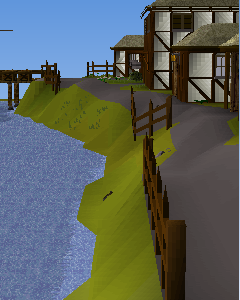
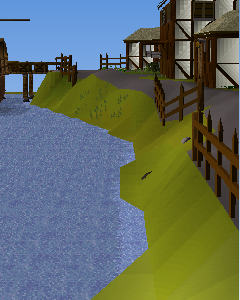
fix(scenes): prove every emote frame and a bulky look; refuse off-map spots
Each spot's composite is now compared with the same-pass render for both
the default and a bulky look, standing and in every frame of every emote
the card plays (2 x 73 per spot); the build names the spot, look, emote
and frame on any difference. Catherby moves a tile south, away from the
fence its dance kick reached. A tile off the map, or an indexed mapsquare
whose files are missing, now throws instead of rendering an empty sky.

diff --git a/scripts/scenes/render.ts b/scripts/scenes/render.ts
@@ -33,7 +33,8 @@ import "./client-shim.ts";
 import { readFileSync } from "node:fs";
 import path from "node:path";
 
-import { type BodyTables, buildBody } from "../../lib/chathead/body.ts";
+import type { AnimTables } from "../../lib/chathead/anims.ts";
+import { type BodyTables, buildBody, type Pose } from "../../lib/chathead/body.ts";
 import { type Client, type ClientModel, prepare } from "../../lib/chathead/client.ts";
 import type { Look } from "../../lib/chathead/look.ts";
 import type { SceneSpot } from "../../lib/scenes/spots.ts";
@@ -145,23 +146,52 @@ const REFERENCE: Look = {
   worn: new Array<number>(14).fill(-1),
 };
 
+/**
+ * The same player geared up well past that outline: a rune full helm (0),
+ * a red cape (1), a rune two-handed sword (3), a rune platebody (4) and
+ * platelegs (7), by `wearpos`. A player's own outfit can be wider or taller
+ * than the default, so each spot is proved with this one too.
+ */
+const BULKY: Look = {
+  ...REFERENCE,
+  worn: [1163, 1007, -1, 1319, 1127, -1, -1, 1079, -1, -1, -1, -1, -1, -1],
+};
+
+/** The looks every spot is proved with, named for the build's errors. */
+const LOOKS: { name: string; look: Look }[] = [
+  { name: "the default look", look: REFERENCE },
+  { name: "the bulky look", look: BULKY },
+];
+
 /** The build area: 13 zones of 8 tiles (`BuildArea.SIZE`). */
 const SIZE = 104;
 
 /** Where the figure lands in the frame, from the pixels it changed. */
 export type Box = { left: number; top: number; right: number; bottom: number };
 
+/** A look in a pose whose composite is not the game's picture. */
+export type Failure = {
+  look: string;
+  /** "standing", or the emote and the frame: "dance frame 2305". */
+  pose: string;
+  /** Pixels where the composite and the same pass differ. */
+  differing: number;
+  /** The game's picture of it, for the contact sheet. */
+  samePass: Int32Array;
+};
+
 export type Shot = {
   spot: SceneSpot;
   /** The scene with no one in it: the PNG. */
   backdrop: Int32Array;
-  /** The reference figure drawn with `worldRender` over the backdrop. */
-  composite: Int32Array;
-  /** The reference figure drawn by `renderAll`, in the same pass. */
+  /** The default look standing, drawn by `renderAll` in the same pass. */
   samePass: Int32Array;
-  /** Pixels where `composite` and `samePass` differ. 0 is exact. */
-  differing: number;
+  /** Where the default look standing lands. */
   figureBox: Box;
+  /** How many look-and-pose composites were compared. */
+  proofs: number;
+  /** Every one of them that differed. None is exact. */
+  failures: Failure[];
 };
 
 export type Studio = {
@@ -190,7 +220,7 @@ export async function openStudio(clientDir: string, engineDir: string, outDir: s
         "dash3d/Pix3D.ts",
       ),
       Pix2D: await client<Client["Pix2D"]>("graphics/Pix2D.ts"),
-      AnimFrame: await client<Client["AnimFrame"]>("dash3d/AnimFrame.ts"),
+      AnimFrame: await client<Client["AnimFrame"] & { list: (object | undefined)[] }>("dash3d/AnimFrame.ts"),
       LocType: await client<ConfigClass>("config/LocType.ts"),
       FloType: await client<ConfigClass>("config/FloType.ts"),
       SeqType: await client<ConfigClass>("config/SeqType.ts"),
@@ -257,6 +287,31 @@ export async function openStudio(clientDir: string, engineDir: string, outDir: s
   const bodies = JSON.parse(
     readFileSync(path.join(outDir, "lib/chathead/bodies.json"), "utf8"),
   ) as BodyTables;
+  for (const id of BULKY.worn) {
+    if (id !== -1 && !bodies.objs[id]) {
+      throw new Error(`the bulky look wears object ${id}, which bodies.json lacks: change BULKY in render.ts`);
+    }
+  }
+
+  // Every pose the card can draw a figure in: standing, and every frame of
+  // every emote (lib/chathead/anims.json, what the site plays), each with
+  // the hands its seq empties. Frames an emote repeats are proved once.
+  const anims = JSON.parse(
+    readFileSync(path.join(outDir, "lib/chathead/anims.json"), "utf8"),
+  ) as AnimTables;
+  const poses: { name: string; pose?: Pose }[] = [{ name: "standing" }];
+  const posed = new Set<string>();
+  for (const [emote, seq] of Object.entries(anims.emotes)) {
+    for (const frame of seq.frames) {
+      const id = `${frame}:${seq.hideLeft}:${seq.hideRight}`;
+      if (posed.has(id)) continue;
+      posed.add(id);
+      if (!AnimFrame.list[frame]) {
+        throw new Error(`${emote} frame ${frame} is not in the cache's anims: re-run npm run chathead:update`);
+      }
+      poses.push({ name: `${emote} frame ${frame}`, pose: { frame, hideLeft: seq.hideLeft, hideRight: seq.hideRight } });
+    }
+  }
   const title = jag("title");
   const font = PixFont.depack(title, "p12_full", false);
 
@@ -317,17 +372,35 @@ export async function openStudio(clientDir: string, engineDir: string, outDir: s
     const world = new World(groundh, SIZE, 4, SIZE);
     const collision = [0, 1, 2, 3].map(() => new CollisionMap());
 
-    // The mapsquares covering the 13x13 zones (Client.ts:6842-6872).
+    // The figure has to stand on the map. Off it, every square around is
+    // missing too, and the build would draw an empty sky around a floating
+    // figure — which composites exactly, so nothing else would catch it.
+    const ownX = input.x >> 6;
+    const ownZ = input.z >> 6;
+    if (!maps.has((ownX << 8) | ownZ)) {
+      throw new Error(
+        `${input.key}: ${input.x},${input.z} is not on the map (no mapsquare ${ownX}_${ownZ} in map_index); ` +
+          `check the tile in spots.ts`,
+      );
+    }
+
+    // The mapsquares covering the 13x13 zones (Client.ts:6842-6872). One
+    // map_index leaves out is not there (the sea past the edge of the map,
+    // which fadeAdjacent fades into); one it lists must have both its files,
+    // or the pack is half-built.
     const squares: { x: number; z: number; land: Uint8Array | null; loc: Uint8Array | null }[] = [];
     for (let mx = ((zoneX - 6) / 8) | 0; mx <= (((zoneX + 6) / 8) | 0); mx++) {
       for (let mz = ((zoneZ - 6) / 8) | 0; mz <= (((zoneZ + 6) / 8) | 0); mz++) {
         const files = maps.get((mx << 8) + mz);
-        squares.push({
-          x: mx * 64 - baseX,
-          z: mz * 64 - baseZ,
-          land: files ? cache.readGzip(4, files.land) : null,
-          loc: files ? cache.readGzip(4, files.loc) : null,
-        });
+        const land = files ? cache.readGzip(4, files.land) : null;
+        const loc = files ? cache.readGzip(4, files.loc) : null;
+        if (files && (!land || !loc)) {
+          const missing = !land ? `land (file ${files.land})` : `locs (file ${files.loc})`;
+          throw new Error(
+            `${input.key}: map_index lists mapsquare ${mx}_${mz} but its ${missing} is not in the cache: repack the engine`,
+          );
+        }
+        squares.push({ x: mx * 64 - baseX, z: mz * 64 - baseZ, land, loc });
       }
     }
 
@@ -387,10 +460,10 @@ export async function openStudio(clientDir: string, engineDir: string, outDir: s
     return { x: targetX - x, y: targetY - y, z: targetZ - z };
   }
 
-  /** The reference figure, freshly built: `buildBody` hands out the one scratch model. */
-  function figure(): WorldModel {
-    const body = buildBody(source, bodies, REFERENCE);
-    if (!body) throw new Error("the reference look built no body: re-run npm run chathead:update");
+  /** A figure, freshly built: `buildBody` hands out the one scratch model. */
+  function figure(look: Look, pose?: Pose): WorldModel {
+    const body = buildBody(source, bodies, look, pose);
+    if (!body) throw new Error("a reference look built no body: re-run npm run chathead:update");
     return body as WorldModel;
   }
 
@@ -406,9 +479,11 @@ export async function openStudio(clientDir: string, engineDir: string, outDir: s
    * fence, a table, the ground rising in front — covers any of its pixels:
    * `World` paints back to front, and a composite puts the figure last.
    *
-   * So the reference figure is drawn both ways — in the same pass, with
-   * `addDynamic`, and over the finished backdrop — and the pixels compared.
-   * `build.ts` refuses a spot where any differ.
+   * So a figure is drawn both ways — in the same pass, with `addDynamic`,
+   * and over the finished backdrop — and the pixels compared, for every
+   * pose the card can show it in (standing, and every frame of every emote)
+   * and for two looks: the default, and a bulky one that reaches further.
+   * `build.ts` refuses a spot where any differ, naming the look and pose.
    */
   async function shoot(input: SpotInput): Promise<Shot> {
     if (!((input.pitch >= 0 && input.pitch <= 96) || (input.pitch >= 128 && input.pitch <= 383))) {
@@ -424,9 +499,6 @@ export async function openStudio(clientDir: string, engineDir: string, outDir: s
       const region = buildRegion(input);
       const tileX = input.x - region.baseX;
       const tileZ = input.z - region.baseZ;
-      if (tileX < 0 || tileZ < 0 || tileX >= SIZE || tileZ >= SIZE) {
-        throw new Error(`${input.key}: ${input.x},${input.z} is outside its own build area`);
-      }
 
       // The figure stands in the middle of its tile, on the ground, facing the camera.
       const fx = tileX * 128 + 64;
@@ -452,30 +524,40 @@ export async function openStudio(clientDir: string, engineDir: string, outDir: s
         throw new Error(`${input.key}: the figure is ${depth} deep, past the game's far clip of ${GAME_FAR}; shorten dist`);
       }
 
-      const render = (withFigure: boolean): Int32Array => {
+      const render = (body: WorldModel | null): Int32Array => {
         const pixels = sky();
         Pix2D.setPixels(pixels, WIDTH, HEIGHT);
         Pix3D.setClipping(WIDTH, HEIGHT);
-        if (withFigure) region.world.addDynamic(input.level, fx, fy, fz, figure(), 0, facing, 60, false);
+        if (body) region.world.addDynamic(input.level, fx, fy, fz, body, 0, facing, 60, false);
         region.world.renderAll(eye.x, eye.y, eye.z, 3, input.yaw, input.pitch);
         region.world.removeSprites();
         return pixels;
       };
 
-      const backdrop = render(false);
-      const samePass = render(true);
+      const backdrop = render(null);
+      let reference: { samePass: Int32Array; composite: Int32Array } | null = null;
+      const failures: Failure[] = [];
+      for (const { name: look, look: worn } of LOOKS) {
+        for (const { name: pose, pose: frame } of poses) {
+          const samePass = render(figure(worn, frame));
+          // What the site will do: the backdrop, then the figure over it.
+          const composite = backdrop.slice();
+          Pix2D.setPixels(composite, WIDTH, HEIGHT);
+          Pix3D.setRenderClipping();
+          figure(worn, frame).worldRender(facing, sinPitch, cosPitch, sinYaw, cosYaw, fx - eye.x, fy - eye.y, fz - eye.z, 0);
 
-      // What the site will do: the backdrop, then the figure over it.
-      const composite = backdrop.slice();
-      Pix2D.setPixels(composite, WIDTH, HEIGHT);
-      Pix3D.setRenderClipping();
-      figure().worldRender(facing, sinPitch, cosPitch, sinYaw, cosYaw, fx - eye.x, fy - eye.y, fz - eye.z, 0);
+          let differing = 0;
+          for (let i = 0; i < composite.length; i++) if (composite[i] !== samePass[i]) differing++;
+          if (differing > 0) failures.push({ look, pose, differing, samePass });
+          // The first proof is the default look standing: the contact sheet's.
+          reference ??= { samePass, composite };
+        }
+      }
+      if (!reference) throw new Error("no looks or poses to prove a spot with");
 
-      let differing = 0;
       const box: Box = { left: WIDTH, top: HEIGHT, right: -1, bottom: -1 };
-      for (let i = 0; i < composite.length; i++) {
-        if (composite[i] !== samePass[i]) differing++;
-        if (composite[i] !== backdrop[i]) {
+      for (let i = 0; i < backdrop.length; i++) {
+        if (reference.composite[i] !== backdrop[i]) {
           const x = i % WIDTH;
           const y = (i / WIDTH) | 0;
           box.left = Math.min(box.left, x);
@@ -504,7 +586,14 @@ export async function openStudio(clientDir: string, engineDir: string, outDir: s
         },
         figure: { x: input.x * 128 + 64, y: fy, z: input.z * 128 + 64, yaw: facing },
       };
-      return { spot, backdrop, composite, samePass, differing, figureBox: box };
+      return {
+        spot,
+        backdrop,
+        samePass: reference.samePass,
+        figureBox: box,
+        proofs: LOOKS.length * poses.length,
+        failures,
+      };
     });
   }
 

diff --git a/scripts/scenes/build.ts b/scripts/scenes/build.ts
@@ -15,10 +15,12 @@
  * and `scripts/scenes/contact-sheet.png`, every spot with the reference
  * figure drawn in, to judge the framing by eye. That one is not committed.
  *
- * A spot fails the build, naming it, if drawing a figure over its backdrop
- * is not pixel for pixel the same as drawing it in the same pass: something
- * stands between that tile and the camera. Move the tile or the camera.
- * Nothing is written but the contact sheet when any spot fails.
+ * A spot fails the build if drawing a figure over its backdrop is not pixel
+ * for pixel the same as drawing it in the same pass, for either reference
+ * look, standing or in any frame of any emote: something stands between
+ * that tile and the camera. The error names the spot, the look, the emote
+ * and the frame; move the tile or the camera. Nothing is written but the
+ * contact sheet, which then shows the first failing pose, when any fails.
  */
 
 import "../chathead/browser-stub.ts";
@@ -53,6 +55,7 @@ for (const input of SPOTS) {
 
 const studio = await openStudio(CLIENT_DIR, ENGINE_DIR, OUT_DIR);
 
+const started = performance.now();
 const shots = [];
 for (const input of SPOTS) {
   const shot = await studio.shoot(input);
@@ -70,28 +73,43 @@ for (const input of SPOTS) {
     `scene ${input.key} ${WIDTH}x${HEIGHT} eye ${eye.x},${eye.y},${eye.z} pitch ${eye.pitch} yaw ${eye.yaw}, ` +
       `figure at ${figure.x >> 7},${figure.z >> 7} in x ${box.left}-${box.right} y ${box.top}-${box.bottom}, ` +
       `${(png.length / 1024).toFixed(1)} KB, ` +
-      (shot.differing === 0 ? "composite exact" : `composite DIFFERS in ${shot.differing} pixels`),
+      (shot.failures.length === 0
+        ? `composite exact in all ${shot.proofs} looks and poses`
+        : `composite DIFFERS in ${shot.failures.length} of ${shot.proofs} looks and poses`),
   );
   shots.push({ ...shot, png });
 }
 
+const proofs = shots.reduce((total, shot) => total + shot.proofs, 0);
+const seconds = ((performance.now() - started) / 1000).toFixed(1);
+console.log(`proofs   ${proofs} composites compared with their same-pass renders in ${seconds} s`);
+
 const sheet = studio.sheet(
-  shots.map((shot) => ({
-    pixels: shot.samePass,
-    label: shot.differing === 0 ? shot.spot.key : `${shot.spot.key}: ${shot.differing} px differ`,
-  })),
+  shots.map((shot) => {
+    const failure = shot.failures[0];
+    return failure
+      ? { pixels: failure.samePass, label: `${shot.spot.key}: ${failure.pose}, ${failure.differing} px` }
+      : { pixels: shot.samePass, label: shot.spot.key };
+  }),
   Math.min(shots.length, 6),
 );
 const sheetFile = path.join(OUT_DIR, "scripts/scenes/contact-sheet.png");
 writeFileSync(sheetFile, encodePng(sheet.pixels, sheet.width, sheet.height));
 console.log(`sheet    ${sheet.width}x${sheet.height} -> scripts/scenes/contact-sheet.png (not committed)`);
 
-const inexact = shots.filter((shot) => shot.differing > 0).map((shot) => shot.spot.key);
+const inexact = shots.filter((shot) => shot.failures.length > 0);
 if (inexact.length > 0) {
+  const listed = inexact.map((shot) => {
+    const first = shot.failures
+      .slice(0, 4)
+      .map((failure) => `${failure.look}, ${failure.pose} (${failure.differing} px)`);
+    const more = shot.failures.length - first.length;
+    return `${shot.spot.key}: ${first.join("; ")}${more > 0 ? `; and ${more} more` : ""}`;
+  });
   throw new Error(
-    `${inexact.join(", ")}: a figure drawn over the backdrop is not the figure drawn in the scene; ` +
-      `something stands between its tile and the camera. Move the tile or the camera in spots.ts ` +
-      `(the contact sheet shows the same-pass figure).`,
+    `a figure drawn over the backdrop is not the figure drawn in the scene at\n  ${listed.join("\n  ")}\n` +
+      `Something stands between its tile and the camera. Move the tile or the camera in spots.ts ` +
+      `(the contact sheet shows the game's picture of the first failing pose).`,
   );
 }
 

diff --git a/scripts/scenes/spots.ts b/scripts/scenes/spots.ts
@@ -31,7 +31,7 @@ export const SPOTS: SpotInput[] = [
   { key: "falador", name: "Falador park", x: 2995, z: 3376, level: 0, pitch: 32, yaw: 1024, dist: 1000, lift: 230 },
   { key: "wilderness", name: "the Wilderness border", x: 3092, z: 3528, level: 0, pitch: 64, yaw: 0, dist: 1000, lift: 230 },
   { key: "draynor", name: "Draynor market", x: 3082, z: 3248, level: 0, pitch: 64, yaw: 512, dist: 1000, lift: 230 },
-  { key: "catherby", name: "Catherby beach", x: 2830, z: 3436, level: 0, pitch: 64, yaw: 512, dist: 1000, lift: 230 },
+  { key: "catherby", name: "Catherby beach", x: 2830, z: 3435, level: 0, pitch: 64, yaw: 512, dist: 1000, lift: 230 },
   { key: "al_kharid", name: "Al Kharid palace", x: 3293, z: 3176, level: 0, pitch: 64, yaw: 1024, dist: 1000, lift: 230 },
   { key: "edgeville", name: "Edgeville", x: 3089, z: 3488, level: 0, pitch: 64, yaw: 0, dist: 1000, lift: 230 },
   { key: "port_sarim", name: "Port Sarim docks", x: 3029, z: 3218, level: 0, pitch: 64, yaw: 1536, dist: 1000, lift: 230 },
